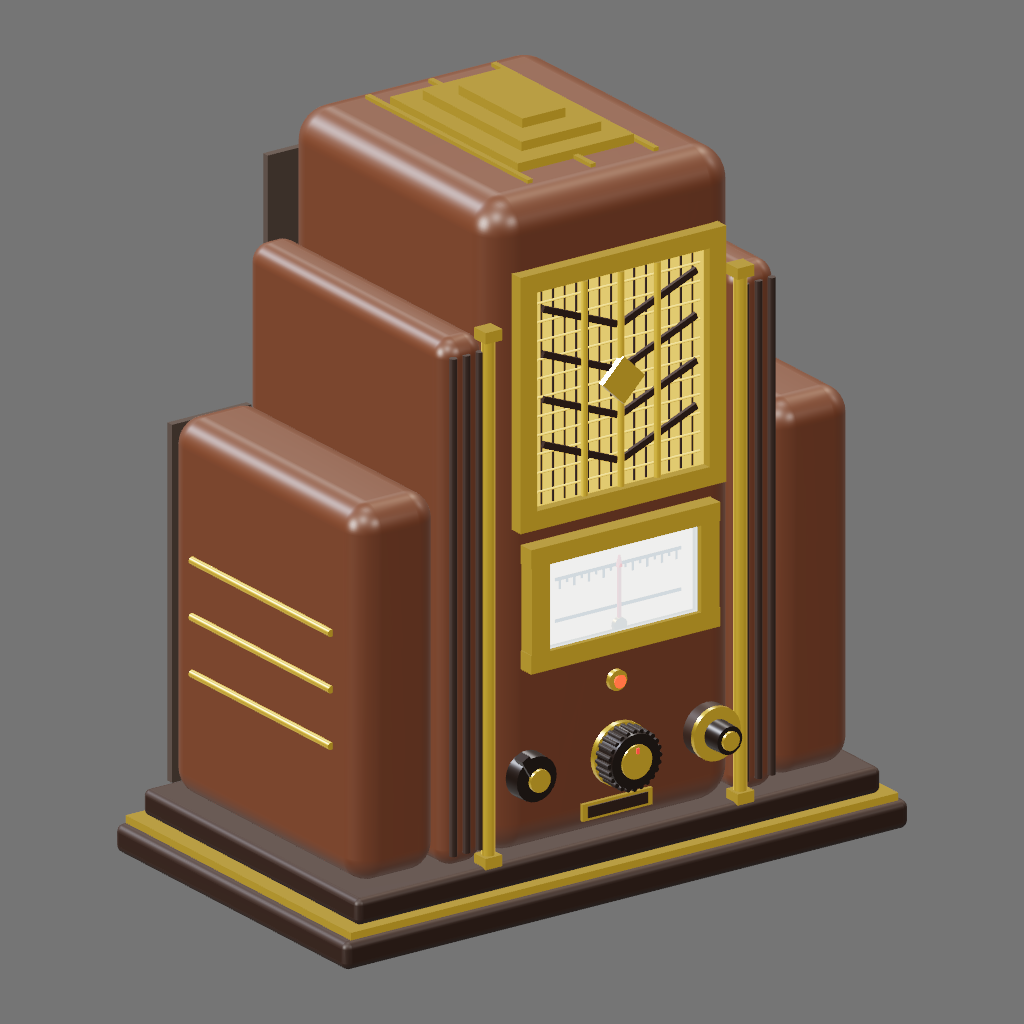
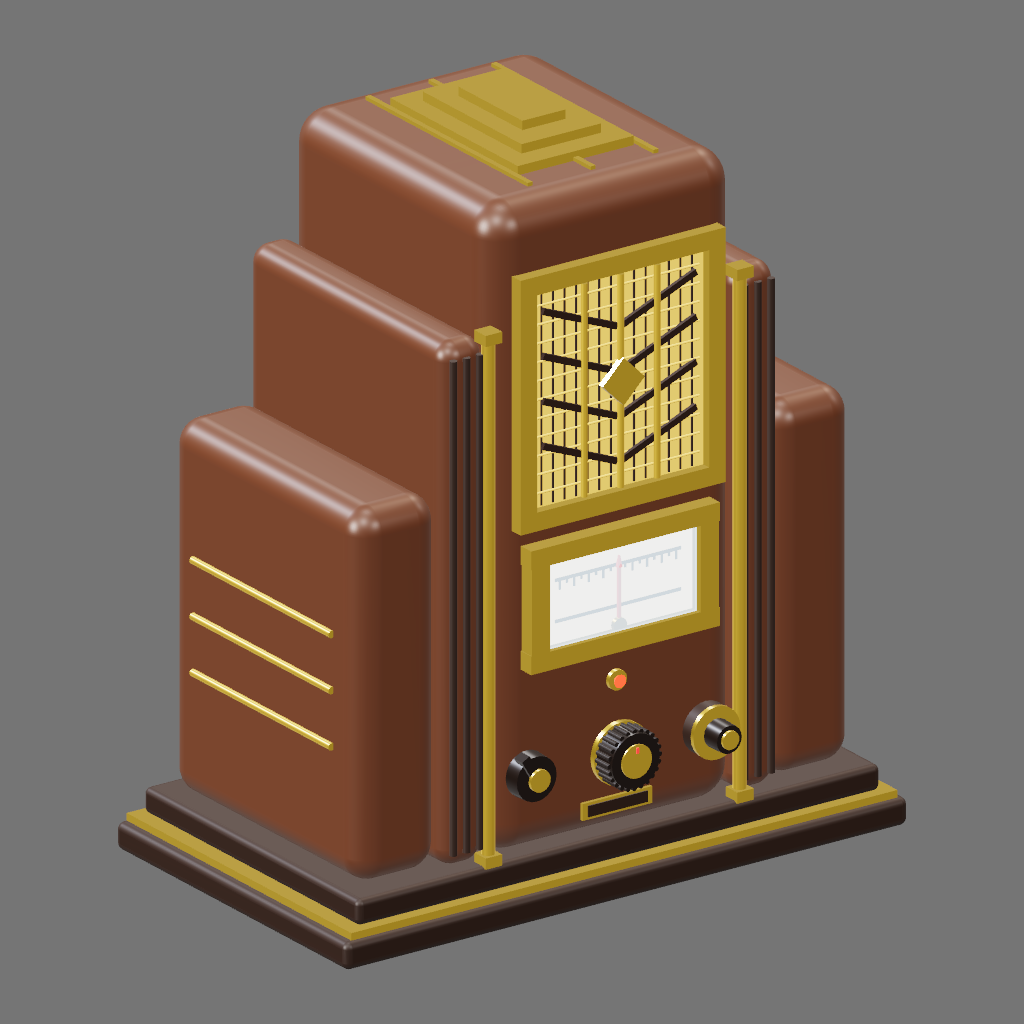
Correct peacock shell winding and fit radio rear panels

diff --git a/site/examples/history/deco-radio/current.kiln.js b/site/examples/history/deco-radio/current.kiln.js
@@ -19,7 +19,7 @@ async function build() {
   const pointerMat = gameMaterial(0xd32f2f, { roughness: 0.30, metalness: 0.10 });
   const bakeliteMat = gameMaterial(0x1a120e, { roughness: 0.32, metalness: 0.08 });
   const pilotJewelMat = gameMaterial(0xdd1818, { roughness: 0.15, emissive: 0xff2200, emissiveIntensity: 0.75 });
-  const backPanelMat = gameMaterial(0x2d221b, { roughness: 0.85 });
+  const backPanelMat = walnutMat;
   const dialTickMat = gameMaterial(0x2b1c11, { roughness: 0.6 });
 
   // 1. Stepped Plinth Base & Corner Feet
@@ -274,22 +274,22 @@ async function build() {
   createPart('BrandPlaqueInlay', plaqueInlayGeo, darkWoodMat, { position: [0.0912, 0.048, 0], parent: root });
 
   // Center rear panel fitting stepped cabinet silhouette
-  const backBoardGeo = boxGeo(0.004, 0.320, 0.174);
-  createPart('BackPanel', backBoardGeo, backPanelMat, { position: [-0.088, 0.195, 0], parent: root });
+  const backBoardGeo = boxGeo(0.004, 0.298, 0.112);
+  createPart('BackPanel', backBoardGeo, backPanelMat, { position: [-0.089, 0.1995, 0], parent: root });
 
   // Wing rear panels matching stepped flanks
   [-0.125, 0.125].forEach((zPos, idx) => {
-    const wingBackGeo = boxGeo(0.004, 0.190, 0.048);
-    createPart(`WingBack_${idx}`, wingBackGeo, backPanelMat, { position: [-0.082, 0.133, zPos], parent: root });
+    const wingBackGeo = boxGeo(0.004, 0.162, 0.020);
+    createPart(`WingBack_${idx}`, wingBackGeo, backPanelMat, { position: [-0.0825, 0.133, zPos], parent: root });
   });
 
   for (let v = 0; v < 5; v++) {
-    const louverGeo = boxGeo(0.002, 0.005, 0.120);
-    createPart(`BackLouver_${v}`, louverGeo, darkWoodMat, { position: [-0.0905, 0.230 - v * 0.018, 0], parent: root });
+    const louverGeo = boxGeo(0.002, 0.005, 0.100);
+    createPart(`BackLouver_${v}`, louverGeo, darkWoodMat, { position: [-0.092, 0.230 - v * 0.018, 0], parent: root });
   }
 
   const grommetGeo = cylinderXGeo(0.006, 0.006, 0.004, 16);
-  createPart('PowerGrommet', grommetGeo, bakeliteMat, { position: [-0.090, 0.050, 0.050], parent: root });
+  createPart('PowerGrommet', grommetGeo, bakeliteMat, { position: [-0.092, 0.062, 0.040], parent: root });
 
   return root;
 }

diff --git a/site/examples/history/deco-radio/revision-3.kiln.js b/site/examples/history/deco-radio/revision-3.kiln.js
@@ -19,7 +19,7 @@ async function build() {
   const pointerMat = gameMaterial(0xd32f2f, { roughness: 0.30, metalness: 0.10 });
   const bakeliteMat = gameMaterial(0x1a120e, { roughness: 0.32, metalness: 0.08 });
   const pilotJewelMat = gameMaterial(0xdd1818, { roughness: 0.15, emissive: 0xff2200, emissiveIntensity: 0.75 });
-  const backPanelMat = walnutMat;
+  const backPanelMat = gameMaterial(0x2d221b, { roughness: 0.85 });
   const dialTickMat = gameMaterial(0x2b1c11, { roughness: 0.6 });
 
   // 1. Stepped Plinth Base & Corner Feet
@@ -274,22 +274,22 @@ async function build() {
   createPart('BrandPlaqueInlay', plaqueInlayGeo, darkWoodMat, { position: [0.0912, 0.048, 0], parent: root });
 
   // Center rear panel fitting stepped cabinet silhouette
-  const backBoardGeo = boxGeo(0.004, 0.298, 0.112);
-  createPart('BackPanel', backBoardGeo, backPanelMat, { position: [-0.089, 0.1995, 0], parent: root });
+  const backBoardGeo = boxGeo(0.004, 0.320, 0.174);
+  createPart('BackPanel', backBoardGeo, backPanelMat, { position: [-0.088, 0.195, 0], parent: root });
 
   // Wing rear panels matching stepped flanks
   [-0.125, 0.125].forEach((zPos, idx) => {
-    const wingBackGeo = boxGeo(0.004, 0.162, 0.020);
-    createPart(`WingBack_${idx}`, wingBackGeo, backPanelMat, { position: [-0.0825, 0.133, zPos], parent: root });
+    const wingBackGeo = boxGeo(0.004, 0.190, 0.048);
+    createPart(`WingBack_${idx}`, wingBackGeo, backPanelMat, { position: [-0.082, 0.133, zPos], parent: root });
   });
 
   for (let v = 0; v < 5; v++) {
-    const louverGeo = boxGeo(0.002, 0.005, 0.100);
-    createPart(`BackLouver_${v}`, louverGeo, darkWoodMat, { position: [-0.092, 0.230 - v * 0.018, 0], parent: root });
+    const louverGeo = boxGeo(0.002, 0.005, 0.120);
+    createPart(`BackLouver_${v}`, louverGeo, darkWoodMat, { position: [-0.0905, 0.230 - v * 0.018, 0], parent: root });
   }
 
   const grommetGeo = cylinderXGeo(0.006, 0.006, 0.004, 16);
-  createPart('PowerGrommet', grommetGeo, bakeliteMat, { position: [-0.092, 0.062, 0.040], parent: root });
+  createPart('PowerGrommet', grommetGeo, bakeliteMat, { position: [-0.090, 0.050, 0.050], parent: root });
 
   return root;
 }

diff --git a/src/__tests__/peacock-shell.test.ts b/src/__tests__/peacock-shell.test.ts
@@ -1,0 +1,34 @@
+import { readFile } from 'node:fs/promises';
+import { expect, it } from 'bun:test';
+import { FrontSide, type Mesh, Vector3 } from 'three';
+import { GLTFLoader } from 'three/examples/jsm/loaders/GLTFLoader.js';
+import { resolveEvaluatorPortV1 } from '../evaluator/protocol';
+
+it('Peacock enamel shell faces outward without double-sided masking', async () => {
+  const source = await readFile(
+    new URL('../../examples/mechanical-peacock.kiln.js', import.meta.url),
+    'utf8',
+  );
+  const { glb } = await resolveEvaluatorPortV1(undefined, 'trusted-local').render(source);
+  const { scene } = await new GLTFLoader().parseAsync(Uint8Array.from(glb).buffer, '');
+  const mesh = scene.getObjectByName('Mesh_BodyShell') as Mesh;
+  expect(mesh).toBeDefined();
+  expect(Array.isArray(mesh.material)).toBe(false);
+  if (Array.isArray(mesh.material)) throw new Error('Expected one enamel material');
+  expect(mesh.material.side).toBe(FrontSide);
+  const positions = mesh.geometry.getAttribute('position');
+  const index = mesh.geometry.index;
+  const a = new Vector3(),
+    b = new Vector3(),
+    c = new Vector3();
+  let inward = 0;
+  for (let i = 0; i < (index?.count ?? positions.count); i += 3) {
+    a.fromBufferAttribute(positions, index?.getX(i) ?? i);
+    b.fromBufferAttribute(positions, index?.getX(i + 1) ?? i + 1);
+    c.fromBufferAttribute(positions, index?.getX(i + 2) ?? i + 2);
+    const center = a.clone().add(b).add(c).divideScalar(3);
+    const normal = b.sub(a).cross(c.sub(a));
+    if (center.y * normal.y + center.z * normal.z <= 0) inward++;
+  }
+  expect(inward).toBe(0);
+});

diff --git a/site/examples/history/mechanical-peacock/current.kiln.js b/site/examples/history/mechanical-peacock/current.kiln.js
@@ -152,7 +152,7 @@ async function build() {
   /* ---- enamel body shell over a brass keel ---- */
   const bodyGroup = createPivot('Body', [0, BODY_Y, 0], root);
   const bodyGeo = parametricSurface(function (u, v) {
-    const a = 2 * Math.PI * u;
+    const a = -2 * Math.PI * u; // Outward winding around the longitudinal body axis.
     const k = bodyK(v);
     const x = BODY_X0 + (BODY_X1 - BODY_X0) * v;
     const droop = -0.028 * Math.sin(Math.PI * v);

diff --git a/site/examples/history/mechanical-peacock/revision-2.kiln.js b/site/examples/history/mechanical-peacock/revision-2.kiln.js
@@ -152,7 +152,7 @@ async function build() {
   /* ---- enamel body shell over a brass keel ---- */
   const bodyGroup = createPivot('Body', [0, BODY_Y, 0], root);
   const bodyGeo = parametricSurface(function (u, v) {
-    const a = -2 * Math.PI * u; // Outward winding around the longitudinal body axis.
+    const a = 2 * Math.PI * u;
     const k = bodyK(v);
     const x = BODY_X0 + (BODY_X1 - BODY_X0) * v;
     const droop = -0.028 * Math.sin(Math.PI * v);

diff --git a/README.md b/README.md
@@ -19,8 +19,8 @@ the model; Kiln does not require a separate model API key for its tools.
 
 <p align="center"><a href="https://kilnstudio.tools/#/mechanical-peacock"><img src="examples/renders/mechanical-peacock.png" width="460" alt="Mechanical peacock with a jewel-coloured fan and brass frame"></a></p>
 
-Mechanical peacock · Claude Opus 5. A maintainer-agent repair joins the neck to the
-head; the [source revisions](site/examples/history/mechanical-peacock/history.json)
+Mechanical peacock · Claude Opus 5. Maintainer-agent repairs connect the neck and
+correct the body shell's face direction; the [source revisions](site/examples/history/mechanical-peacock/history.json)
 record the original and repaired programs.
 
 [Browse the interactive gallery](https://kilnstudio.tools/#/gallery)
